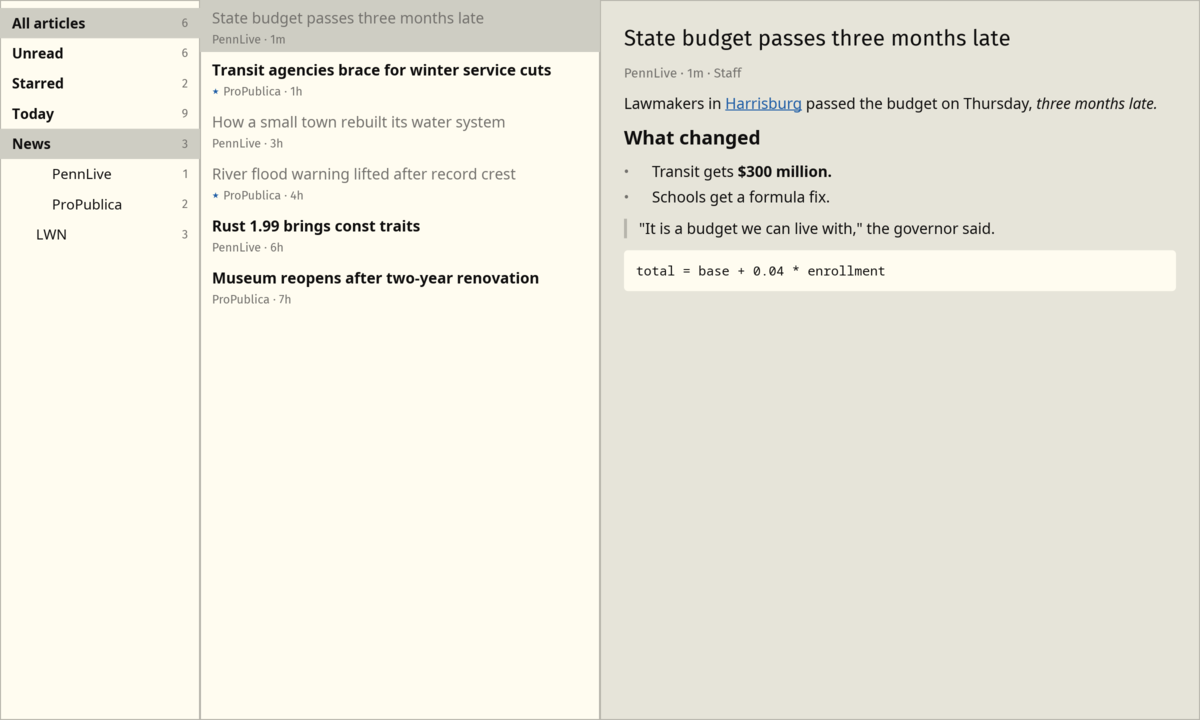
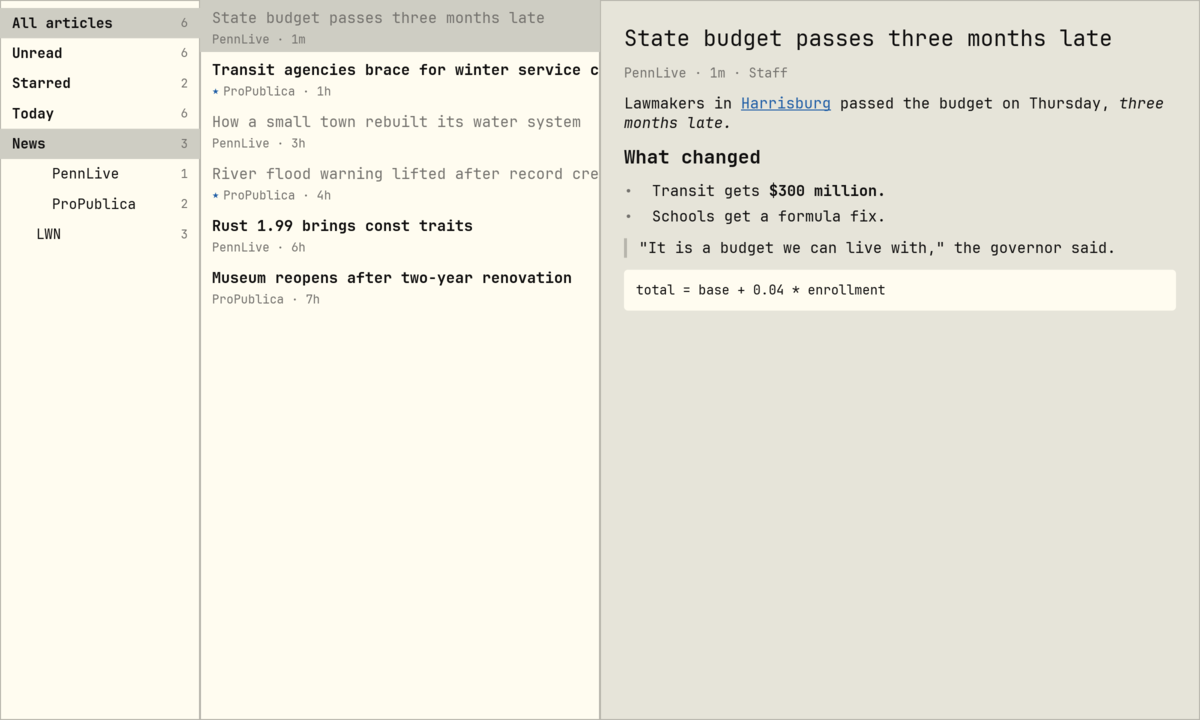
S4.2: theme screenshots in the desktop font

diff --git a/crates/ui/src/lib.rs b/crates/ui/src/lib.rs
@@ -80,10 +80,10 @@ pub fn run(
 /// which `omarchy-font-set` sets, stands in for iced's sans-serif and
 /// monospace families, so plain, bold, italic and code text all use it.
 /// Without fontconfig, or for a family no font file provides, iced's own
-/// choices stay.
-fn use_desktop_font() {
+/// choices stay; then this returns `false`.
+fn use_desktop_font() -> bool {
     let Some(family) = gutenberg_theme::font::monospace() else {
-        return;
+        return false;
     };
     let mut fonts = iced::advanced::graphics::text::font_system()
         .write()
@@ -94,10 +94,11 @@ fn use_desktop_font() {
         .any(|face| face.families.iter().any(|(name, _)| *name == family));
     if !installed {
         eprintln!("gutenberg: font {family:?}: no font file has it; using the default font");
-        return;
+        return false;
     }
     db.set_sans_serif_family(family.clone());
     db.set_monospace_family(family);
+    true
 }
 
 /// Text sizes in the code are for a 14 px font; `[font] size` scales the
@@ -1464,8 +1465,19 @@ pub mod shots {
         app.choose(Entry::Folder(news));
         app.open(0);
 
+        // iced_test draws `Font::DEFAULT` in Fira Sans; with the desktop
+        // font in place, the monospace family is the same font the app's
+        // default (sans-serif) family is.
+        let settings = iced_test::core::Settings {
+            default_font: if use_desktop_font() {
+                Font::MONOSPACE
+            } else {
+                Font::DEFAULT
+            },
+            ..Default::default()
+        };
         let mut simulator = iced_test::simulator::Simulator::with_size(
-            iced_test::core::Settings::default(),
+            settings,
             iced::Size::new(size.0, size.1),
             app.view(),
         );

diff --git a/docs/themes/README.md b/docs/themes/README.md
@@ -7,7 +7,7 @@ ICED_TEST_BACKEND=tiny-skia cargo run -p gutenberg-ui --features shots \
     --example theme_shots -- tests/fixtures/themes docs/themes
 ```
 
-To render what's installed instead, pass `/usr/share/omarchy/themes` as the first argument.
+To render what's installed instead, pass `/usr/share/omarchy/themes` as the first argument. Text is in the rendering machine's desktop font, as in the app (`fc-match monospace`; JetBrainsMono Nerd Font here).
 
 ## The checks
 
